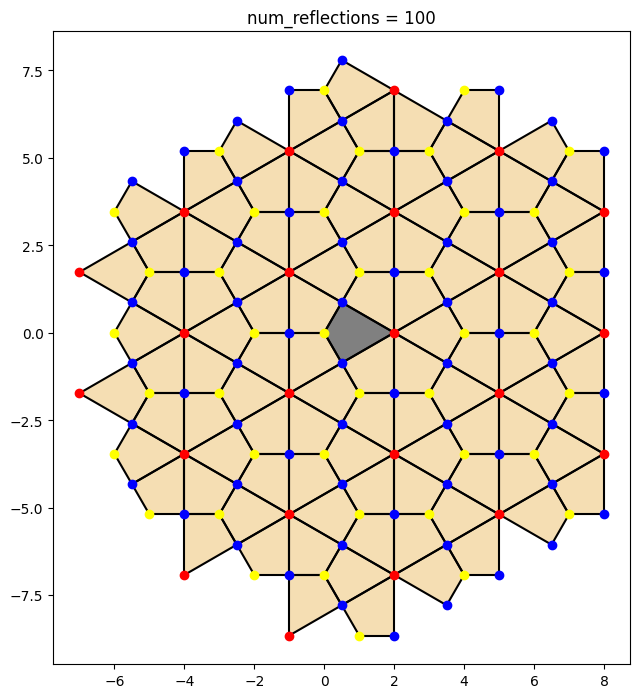
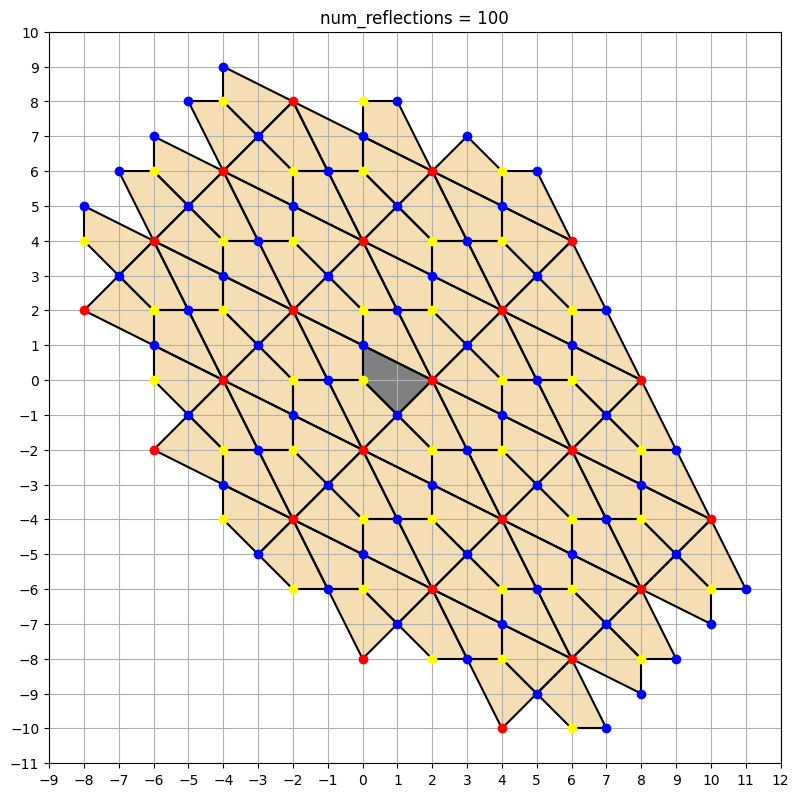
add affine

diff --git a/euler786/euler786.py b/euler786/euler786.py
@@ -1,11 +1,21 @@
+from copy import deepcopy
 from matplotlib import pyplot as plt
 from matplotlib.patches import Polygon
 from matplotlib.collections import LineCollection
+from matplotlib.transforms import Affine2D
 import numpy as np
 
 from HalfEdgeMesh import HalfEdgeMesh, Vertex, Face, HalfEdge
 
-def plot_mesh(mesh: HalfEdgeMesh):
+def plot_mesh(mesh: HalfEdgeMesh, transform: Affine2D = None):
+    if transform is not None:
+        # mesh_transformed = deepcopy(mesh)         # TODO: recursion error
+        mesh_transformed = mesh
+        for vertex in mesh_transformed.vertices:
+            vertex.position = transform.transform(vertex.position)
+
+        return plot_mesh(mesh_transformed, None)
+
     # get bounding box extent
     points = np.array([v.position for v in mesh.vertices])
     width, height = np.ptp(points, axis=0)
@@ -14,6 +24,7 @@ def plot_mesh(mesh: HalfEdgeMesh):
     print(width, height)
 
     plot_size_inches = np.clip(plot_size_inches, None, 40)
+    print(plot_size_inches)
 
     fig, ax = plt.subplots(figsize=(plot_size_inches, plot_size_inches))
     for he in mesh.halfedges:
@@ -119,14 +130,23 @@ def generate_tiling(num_reflections) -> HalfEdgeMesh:
 
 
 if __name__ == "__main__":
-    num_reflections = 10_000
+    num_reflections = 1000
 
     print("Generating tiling... ", end="", flush=True)
     tiling = generate_tiling(num_reflections)
     print("done")
 
-    fig, ax = plot_mesh(tiling)
+    transform =  Affine2D().skew_deg(-30, 0) + Affine2D().scale(1, 2/np.sqrt(3))
+    # transform = None
+
+    fig, ax = plot_mesh(tiling, transform)
     ax.set_title(f"num_reflections = {num_reflections}")
+
+    x_lo, x_hi = np.round(ax.get_xlim())
+    y_lo, y_hi = np.round(ax.get_ylim())
+    ax.set_xticks(np.arange(x_lo, x_hi+1))
+    ax.set_yticks(np.arange(y_lo, y_hi+1))
+    ax.grid()
 
     plt.savefig(f"euler786/images/num_reflections={num_reflections}.png", bbox_inches="tight")
     plt.show()
